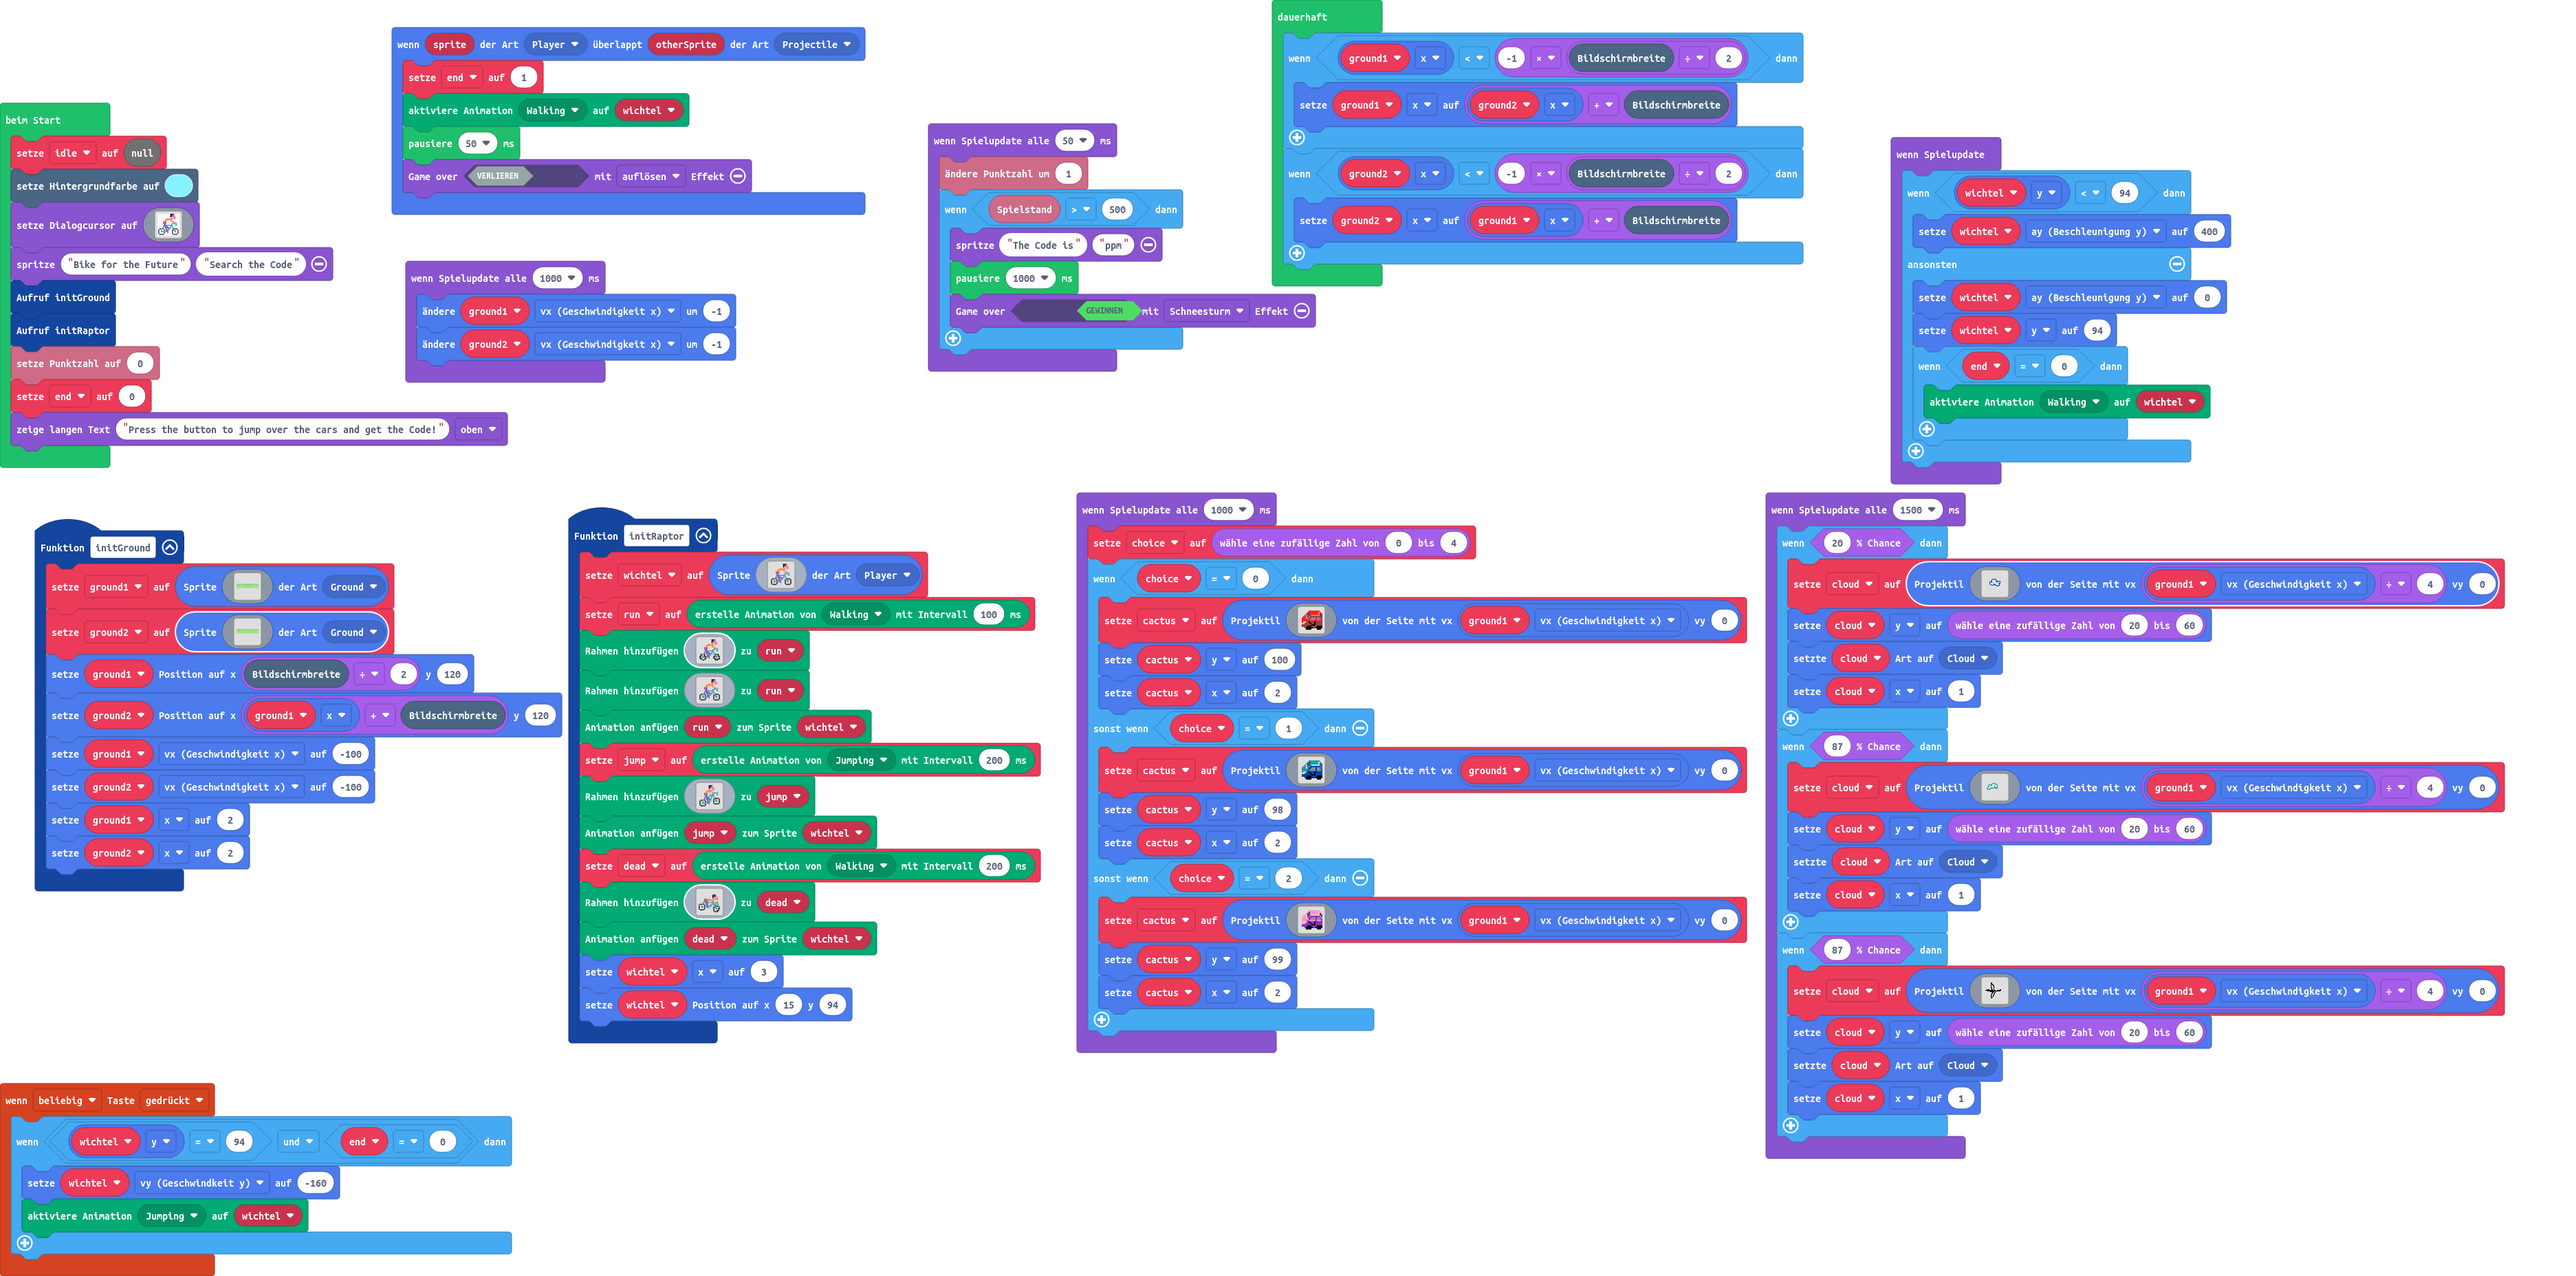
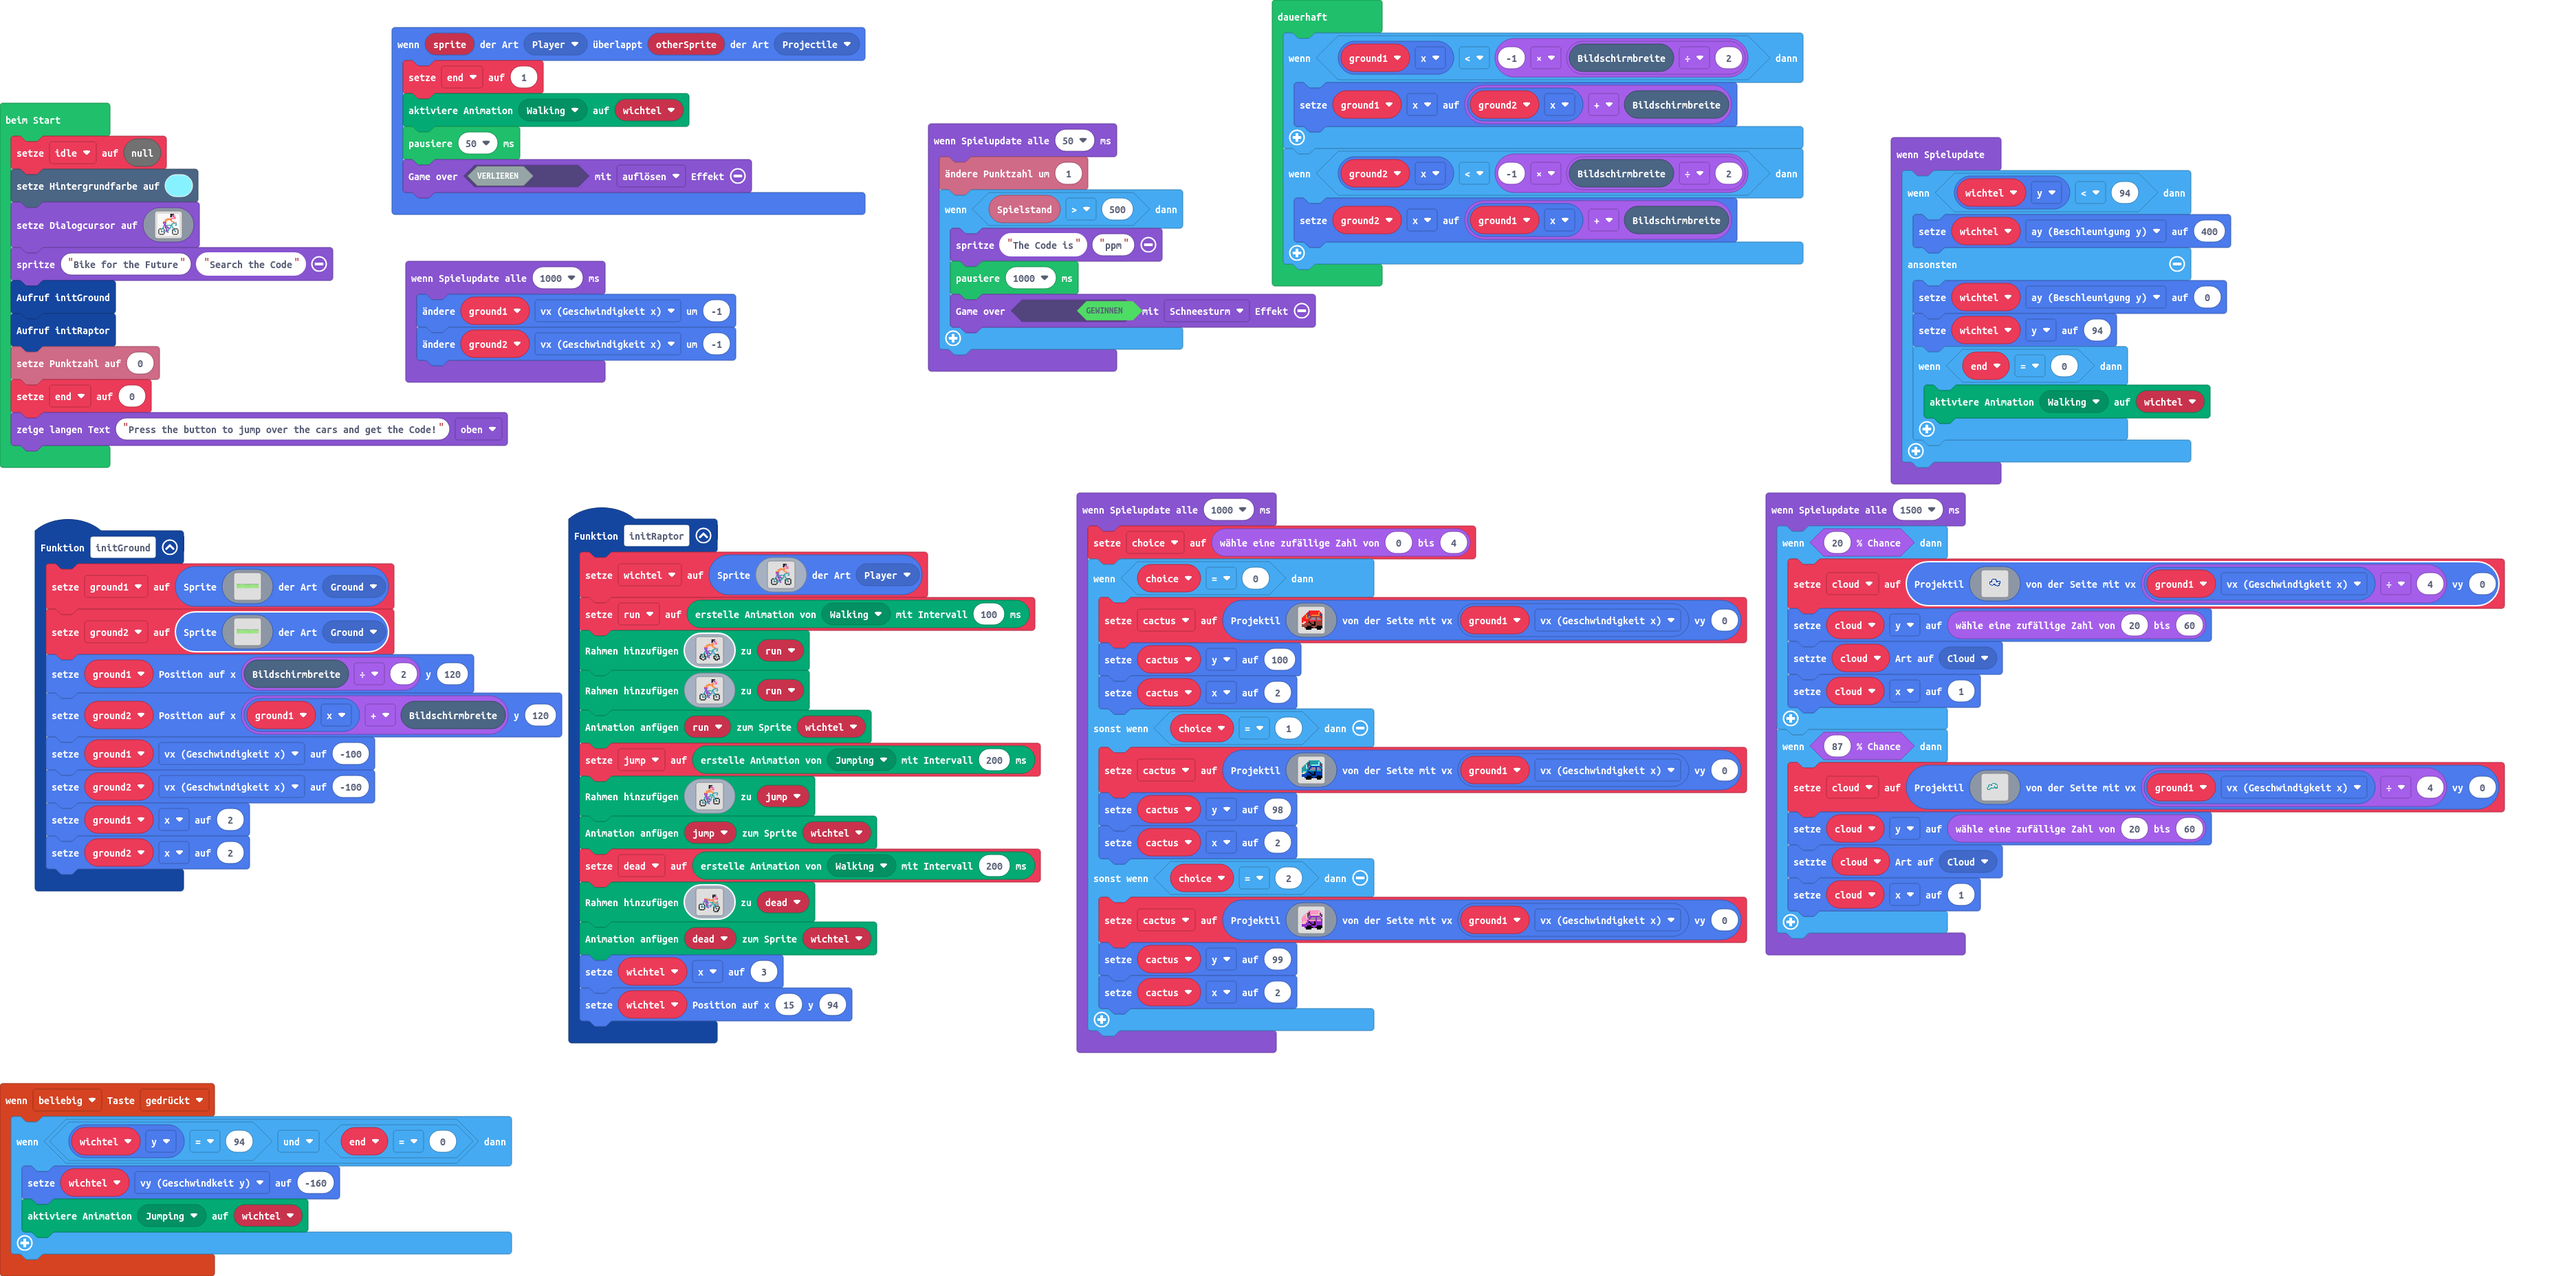
Aktualisiere main.blocks, main.ts

Changed region(s): [[0.6871, 0.7188, 0.9995, 0.9062]]

diff --git a/main.ts b/main.ts
@@ -449,45 +449,6 @@ game.onUpdateInterval(1500, function () {
         cloud.setKind(SpriteKind.Cloud)
         cloud.z = 1
     }
-    if (Math.percentChance(87)) {
-        cloud = sprites.createProjectileFromSide(img`
-            ................................
-            ................................
-            ................................
-            ................................
-            ..........ff....................
-            ..........ff....................
-            ..........fff...................
-            ..........f.ff..................
-            ..........f..ff.................
-            ..........f...f.................
-            ..........f...f.................
-            ..........f...f.................
-            ..........ff..f.................
-            ...........f..f.................
-            ....ffff...ff.f........ff.......
-            ..fffffffffff.fff..ffffff.......
-            .....fffffffffffffffffff........
-            .........ffffff.f...............
-            ............ff.ff...............
-            ...........ff..f................
-            ...........f..ff................
-            ...........f..f.................
-            ..........ff.ff.................
-            ..........f..f..................
-            ..........f..f..................
-            ..........fff...................
-            ..........ff....................
-            ................................
-            ................................
-            ................................
-            ................................
-            ................................
-            `, ground1.vx / 4, 0)
-        cloud.y = randint(20, 60)
-        cloud.setKind(SpriteKind.Cloud)
-        cloud.z = 1
-    }
 })
 forever(function () {
     if (ground1.x < -1 * (scene.screenWidth() / 2)) {
